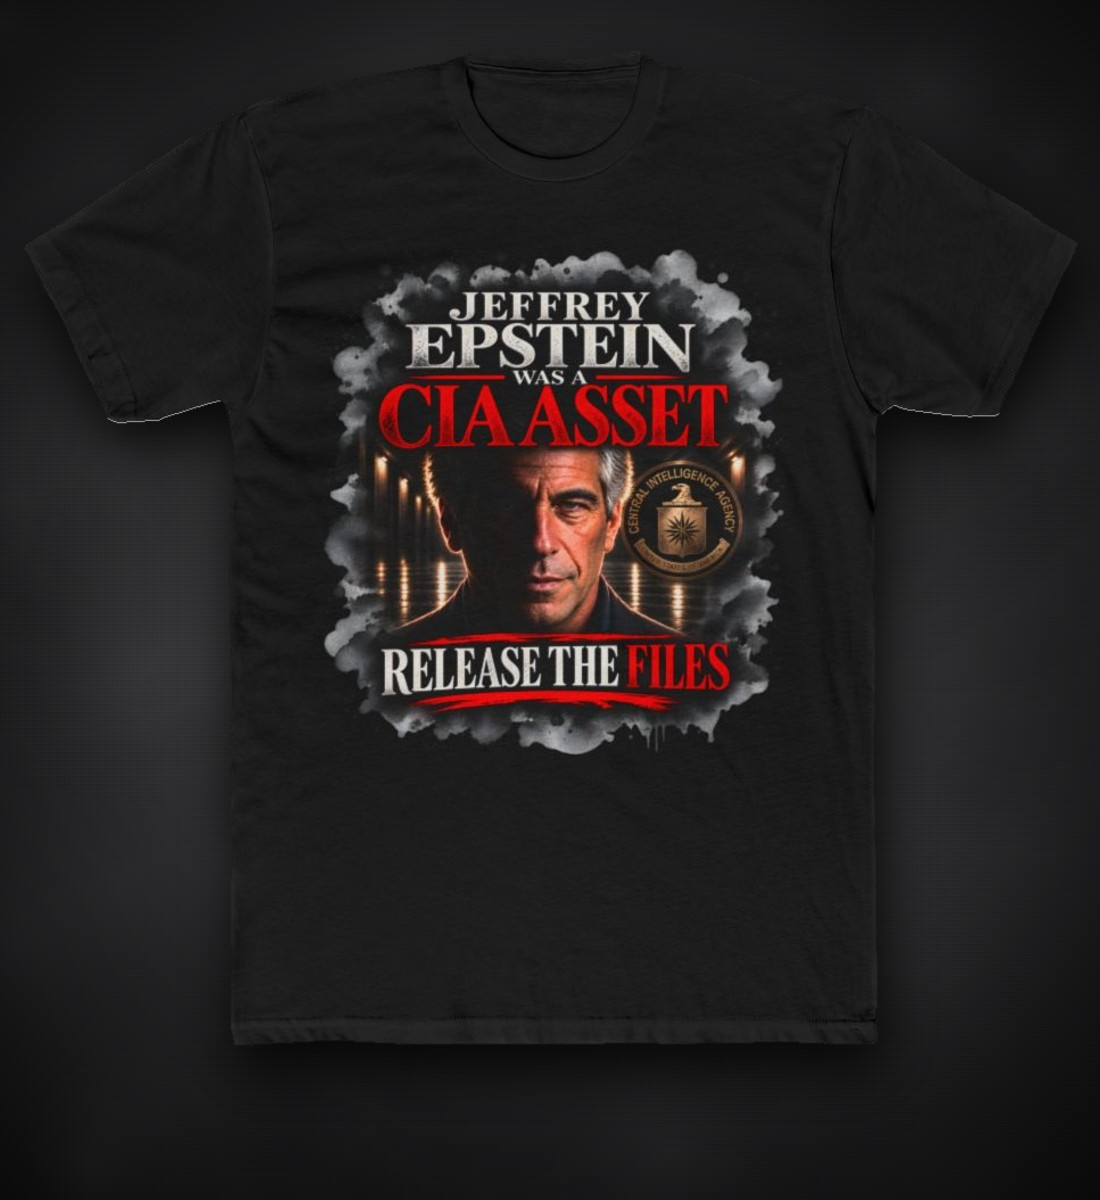
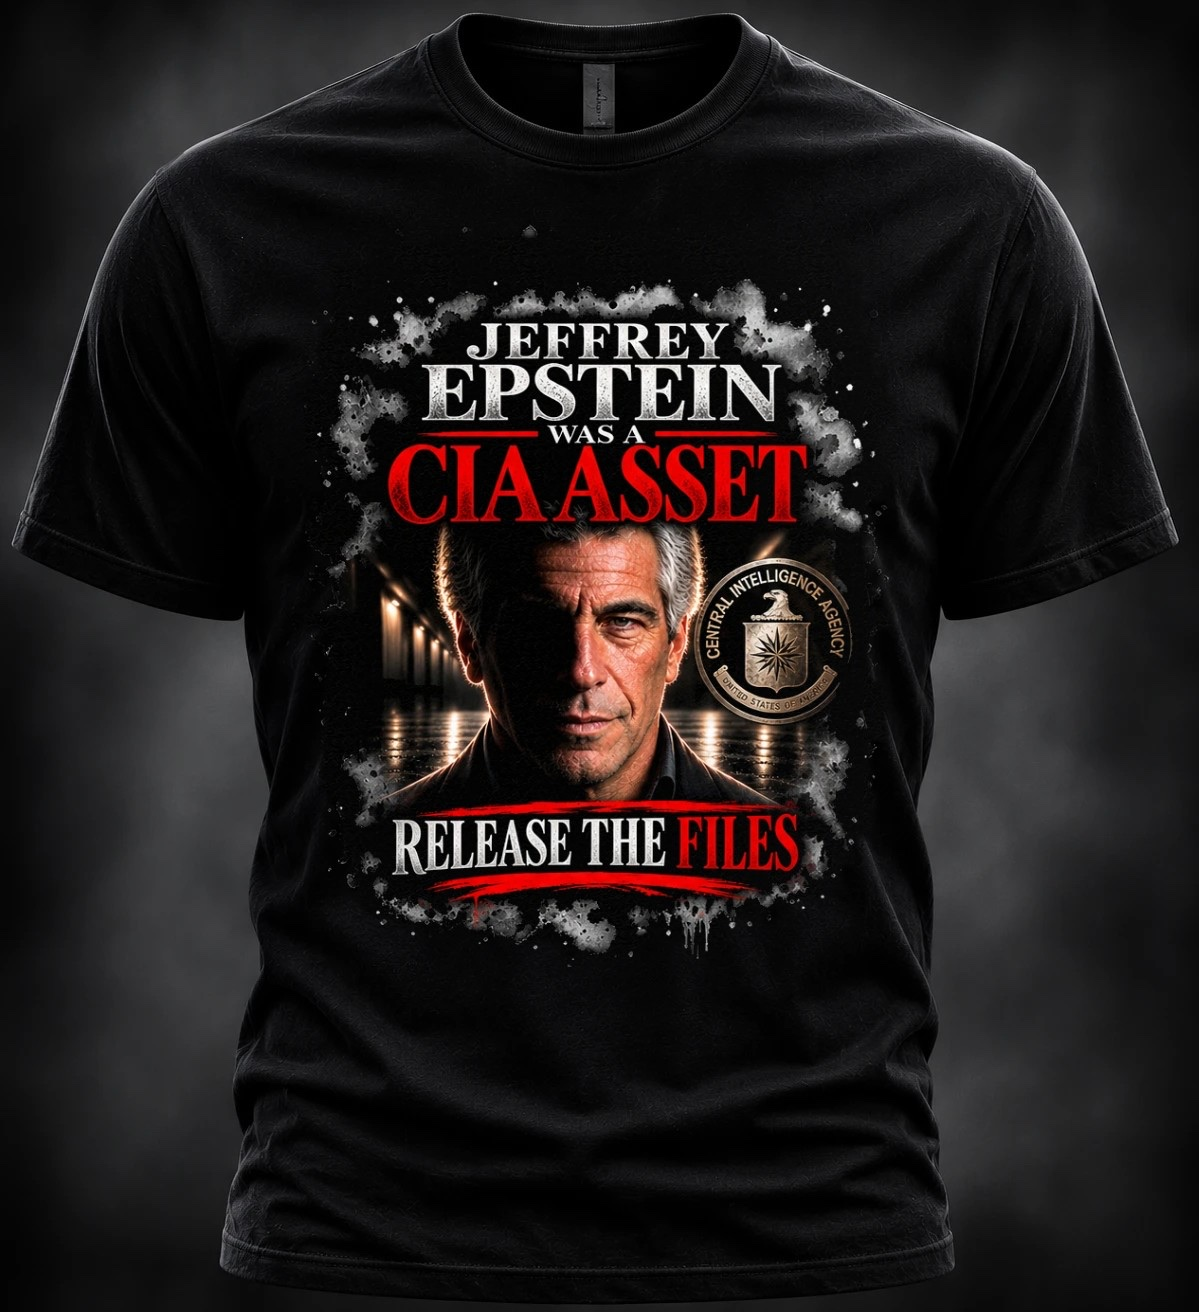
Shirt photos are Jason's own four examples (Jason: "THESE ARE THE IMAGE I EXPECT TO BE PRESENTED ON MY WEBSITE. AND THE PRODUCT THAT WE DELIVER ... MUST ABSOLUTELY REPRESENT PRECISELY WHAT WE ARE REPRESENTING"): each shirt now prints the design taken from his photo of that shirt (PitchZing products 

diff --git a/assets/merch.js b/assets/merch.js
@@ -56,11 +56,14 @@
     </svg>`;
   }
 
-  // ---- the photos (2026-11-16, Jason: "THE PRODUCT WE PROVIDE MUST ABSOLUTELY REPRESENT WHAT WE ARE ADVERTISING"): Printify's
-  // own render of the real print file on each shirt, at the true size and position for size L (the women's art enlarged to
-  // its real width, which Printify's template draws too small), cut out onto a dark backdrop. Built in the scratchpad art lab
-  // (photos.html); rebuild them whenever the art, the printer or the placement changes.
-  const SHOTS = { NL3600: { black: 'assets/shirts/unisex-black-L.jpg', white: 'assets/shirts/unisex-white-L.jpg' }, BC6004: { black: 'assets/shirts/womens-black-L.jpg', white: 'assets/shirts/womens-white-L.jpg' } };
+  // ---- the photos (2026-11-16, Jason: "THESE ARE THE IMAGE I EXPECT TO BE PRESENTED ON MY WEBSITE. AND THE PRODUCT THAT WE
+  // DELIVER ... MUST ABSOLUTELY REPRESENT PRECISELY WHAT WE ARE REPRESENTING"): Jason's own four example photos. Each shirt now
+  // prints the design taken from his photo of that shirt; in each photo the design is re-placed at the size and position the
+  // printer really prints it on size L (width and top below the collar, as shares of the chest, from Printify's render of the
+  // real product), the shirt where it used to reach filled with that shirt's own fabric. Built in the scratchpad art lab
+  // (extract.html → the print files, truesize.html → these photos); rebuild them whenever the art, the printer or the
+  // placement changes.
+  const SHOTS = { NL3600: { black: 'assets/shirts/unisex-black-L.jpg?v=3', white: 'assets/shirts/unisex-white-L.jpg?v=3' }, BC6004: { black: 'assets/shirts/womens-black-L.jpg?v=3', white: 'assets/shirts/womens-white-L.jpg?v=3' } };
   const SHOWN = 'L';
   const photoOf = (code, color, fallback) => SHOTS[code]?.[color] || fallback || null;
   const inches = (n) => `${Number(n).toFixed(1)}\u2033`;
@@ -204,8 +207,9 @@
         <p class="tee__msg" data-msg role="status" aria-live="polite"></p>
       </div>`;
     const colorOf = () => p.colors.find((c) => c.color === st.color);
-    // the design's printed width on each size (PitchZing: the main printer's width, the one the shop advertises)
-    const printOf = (size) => p.sizeGuide?.rows?.find((r) => r.size === size)?.printWidth ?? null;
+    // the design's printed width on each size in the chosen colour (PitchZing: the main printer's width, the one the shop
+    // advertises; each colour's print file is its own photo's design, so white can print a little wider than black)
+    const printOf = (size) => colorOf()?.sizes.find((s) => s.size === size)?.printWidth ?? p.sizeGuide?.rows?.find((r) => r.size === size)?.printWidth ?? null;
     const sizeOf = () => colorOf().sizes.find((s) => s.size === st.size) || null;
     function draw() {
       const c = colorOf();

diff --git a/index.html b/index.html
@@ -38,7 +38,7 @@
 <link rel="preload" as="image" href="assets/cover.jpg">
 <link rel="preload" as="image" href="assets/jason-federal-court.jpg">
 <meta name="turnstile-sitekey" content="0x4AAAAAAFW8xroLmVpmYKc-">
-<link rel="stylesheet" href="assets/site.css?v=105">
+<link rel="stylesheet" href="assets/site.css?v=106">
 <script type="application/ld+json">
 {"@context":"https://schema.org","@graph":[{"@type":"WebSite","@id":"https://theciaasset.com/#website","name":"The CIA Asset","alternateName":["TheCIAAsset.com","Jeffrey Epstein Was A CIA Asset","Jeffrey Epstein Was A CIA Asset by Jason Sullivan"],"url":"https://theciaasset.com/","inLanguage":"en","about":{"@id":"https://theciaasset.com/#book"},"author":{"@type":"Person","name":"Jason Sullivan"}},{"@type":"Book","@id":"https://theciaasset.com/#book","name":"Jeffrey Epstein Was A CIA Asset","alternativeHeadline":"The highly anticipated full story of the intelligence apparatus that made Jeffrey Epstein","description":"Jeffrey Epstein Was A CIA Asset, the new book by Jason Sullivan, is available now for early review: the documented story of the intelligence apparatus that made Jeffrey Epstein.","author":{"@type":"Person","name":"Jason Sullivan","jobTitle":"Chief Investigator","worksFor":{"@type":"Organization","name":"The Ticktin Law Group","url":"https://www.legalbrains.com"}},"bookFormat":"https://schema.org/EBook","genre":"Non-fiction","inLanguage":"en","image":"https://theciaasset.com/assets/cover.jpg","url":"https://theciaasset.com/","mainEntityOfPage":"https://theciaasset.com/"}]}
 </script>
@@ -944,10 +944,10 @@
     <thead><tr><th scope="col">Size</th><th scope="col">Chest width</th><th scope="col">Length</th><th scope="col">Print width</th></tr></thead>
     <tbody id="sizeRows"></tbody>
   </table>
-  <p class="size__note" id="sizeNote">Measured flat, in inches (±0.5 in). Chest width is measured 1 inch below the armholes; double it for the full chest. Length is from the highest point of the shoulder to the hem. Print width is how wide the design prints across the front of that size; the photos show size L.</p>
+  <p class="size__note" id="sizeNote">Measured flat, in inches (±0.5 in). Chest width is measured 1 inch below the armholes; double it for the full chest. Length is from the highest point of the shoulder to the hem. Print width is how wide the design prints across the front of that size (where the two colours differ, the narrower); the photos show size L.</p>
 </dialog>
 <div class="toast" id="toast" role="status" aria-live="polite"></div>
 <script src="assets/site.js?v=102" defer></script>
-<script src="assets/merch.js?v=2" defer></script>
+<script src="assets/merch.js?v=4" defer></script>
 </body>
 </html>

diff --git a/assets/site.css b/assets/site.css
@@ -1179,8 +1179,8 @@ html:has(.zoom[open]) { overflow: hidden; }
 .tee__shot img { width: 100%; height: 100%; object-fit: contain; }
 .tee__svg { width: 92%; height: auto; filter: drop-shadow(0 22px 22px rgba(0, 0, 0, .18)); }
 /* the true-to-size photos: whole, uncropped, on their own dark backdrop, labelled with the size they show and its print width */
-.tee__shot--photo { position: relative; aspect-ratio: 11 / 12; padding: 0; background: #111113; }
-.tee__shot--photo img { width: 100%; height: 100%; object-fit: cover; }
+.tee__shot--photo { position: relative; aspect-ratio: auto; padding: 0; background: #111113; }
+.tee__shot--photo img { width: 100%; height: auto; }
 .tee__shown { position: absolute; left: 12px; bottom: 12px; padding: 7px 11px 6px; border-radius: 8px; background: rgba(11, 11, 13, .78); color: #f3f1ea; font: 700 11px/1.2 var(--mono); letter-spacing: .1em; text-transform: uppercase; }
 .tee__body { padding: 20px 22px 22px; }
 .tee__group { display: grid; gap: 9px; margin-top: 18px; }
